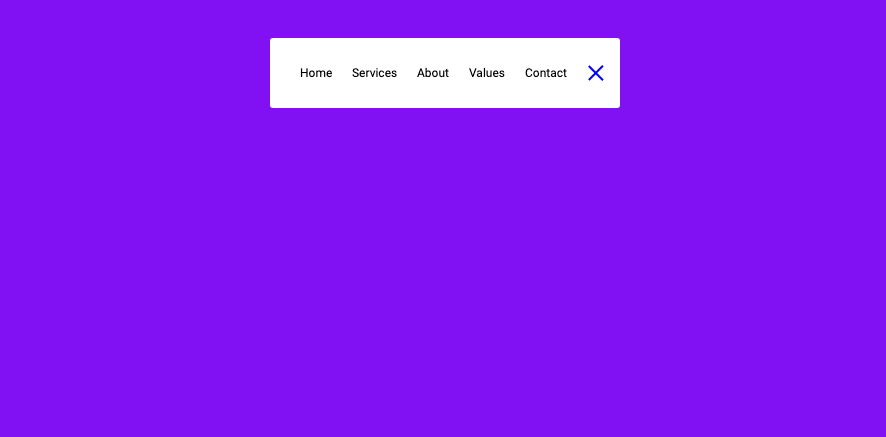
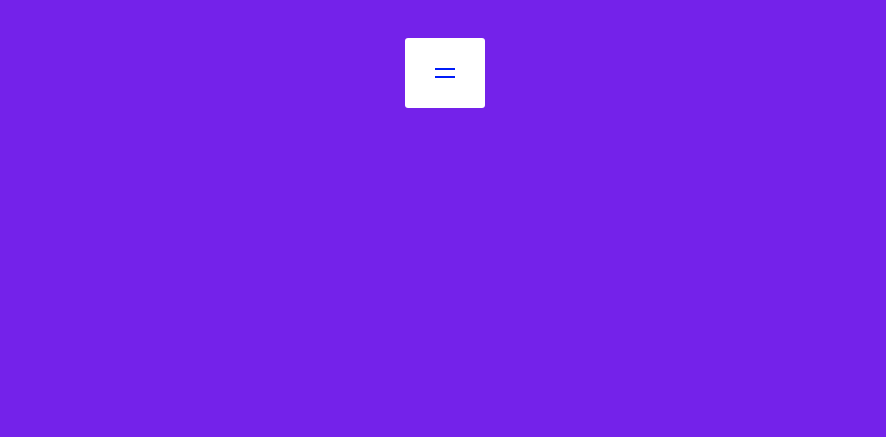
screeshots img-hotfix3

Changed region(s): [[0.3047, 0.0892, 0.7009, 0.2677]]

diff --git a/readme.md b/readme.md
@@ -1,14 +1,14 @@
-<img src="screenshot/nav-open.gif" alt="preview">
+<img src="screenshot/nav-open.gif" alt="gif preview">
 
 ## Dynamic & Responsive Navigation Bar
 
 This project, designed by [Ola Arowolo](https://tech.olaarowolo.com), implements a dynamic and responsive navigation bar. 
 
-<img src="screenshot/dynamic-nav.png" alt=" dynamic-nav preview">
+<img src="screenshot/nav-open.png" alt=" nav-opened preview">
 
 The navigation bar adapts its layout and content based on screen size, providing a seamless user experience across all devices.
 
-<img src="screenshot/nav-closed.png" alt="nav-closed review">
+<img src="screenshot/nav-closed.png" alt="nav-closed preview">
 
 ## Features
 
